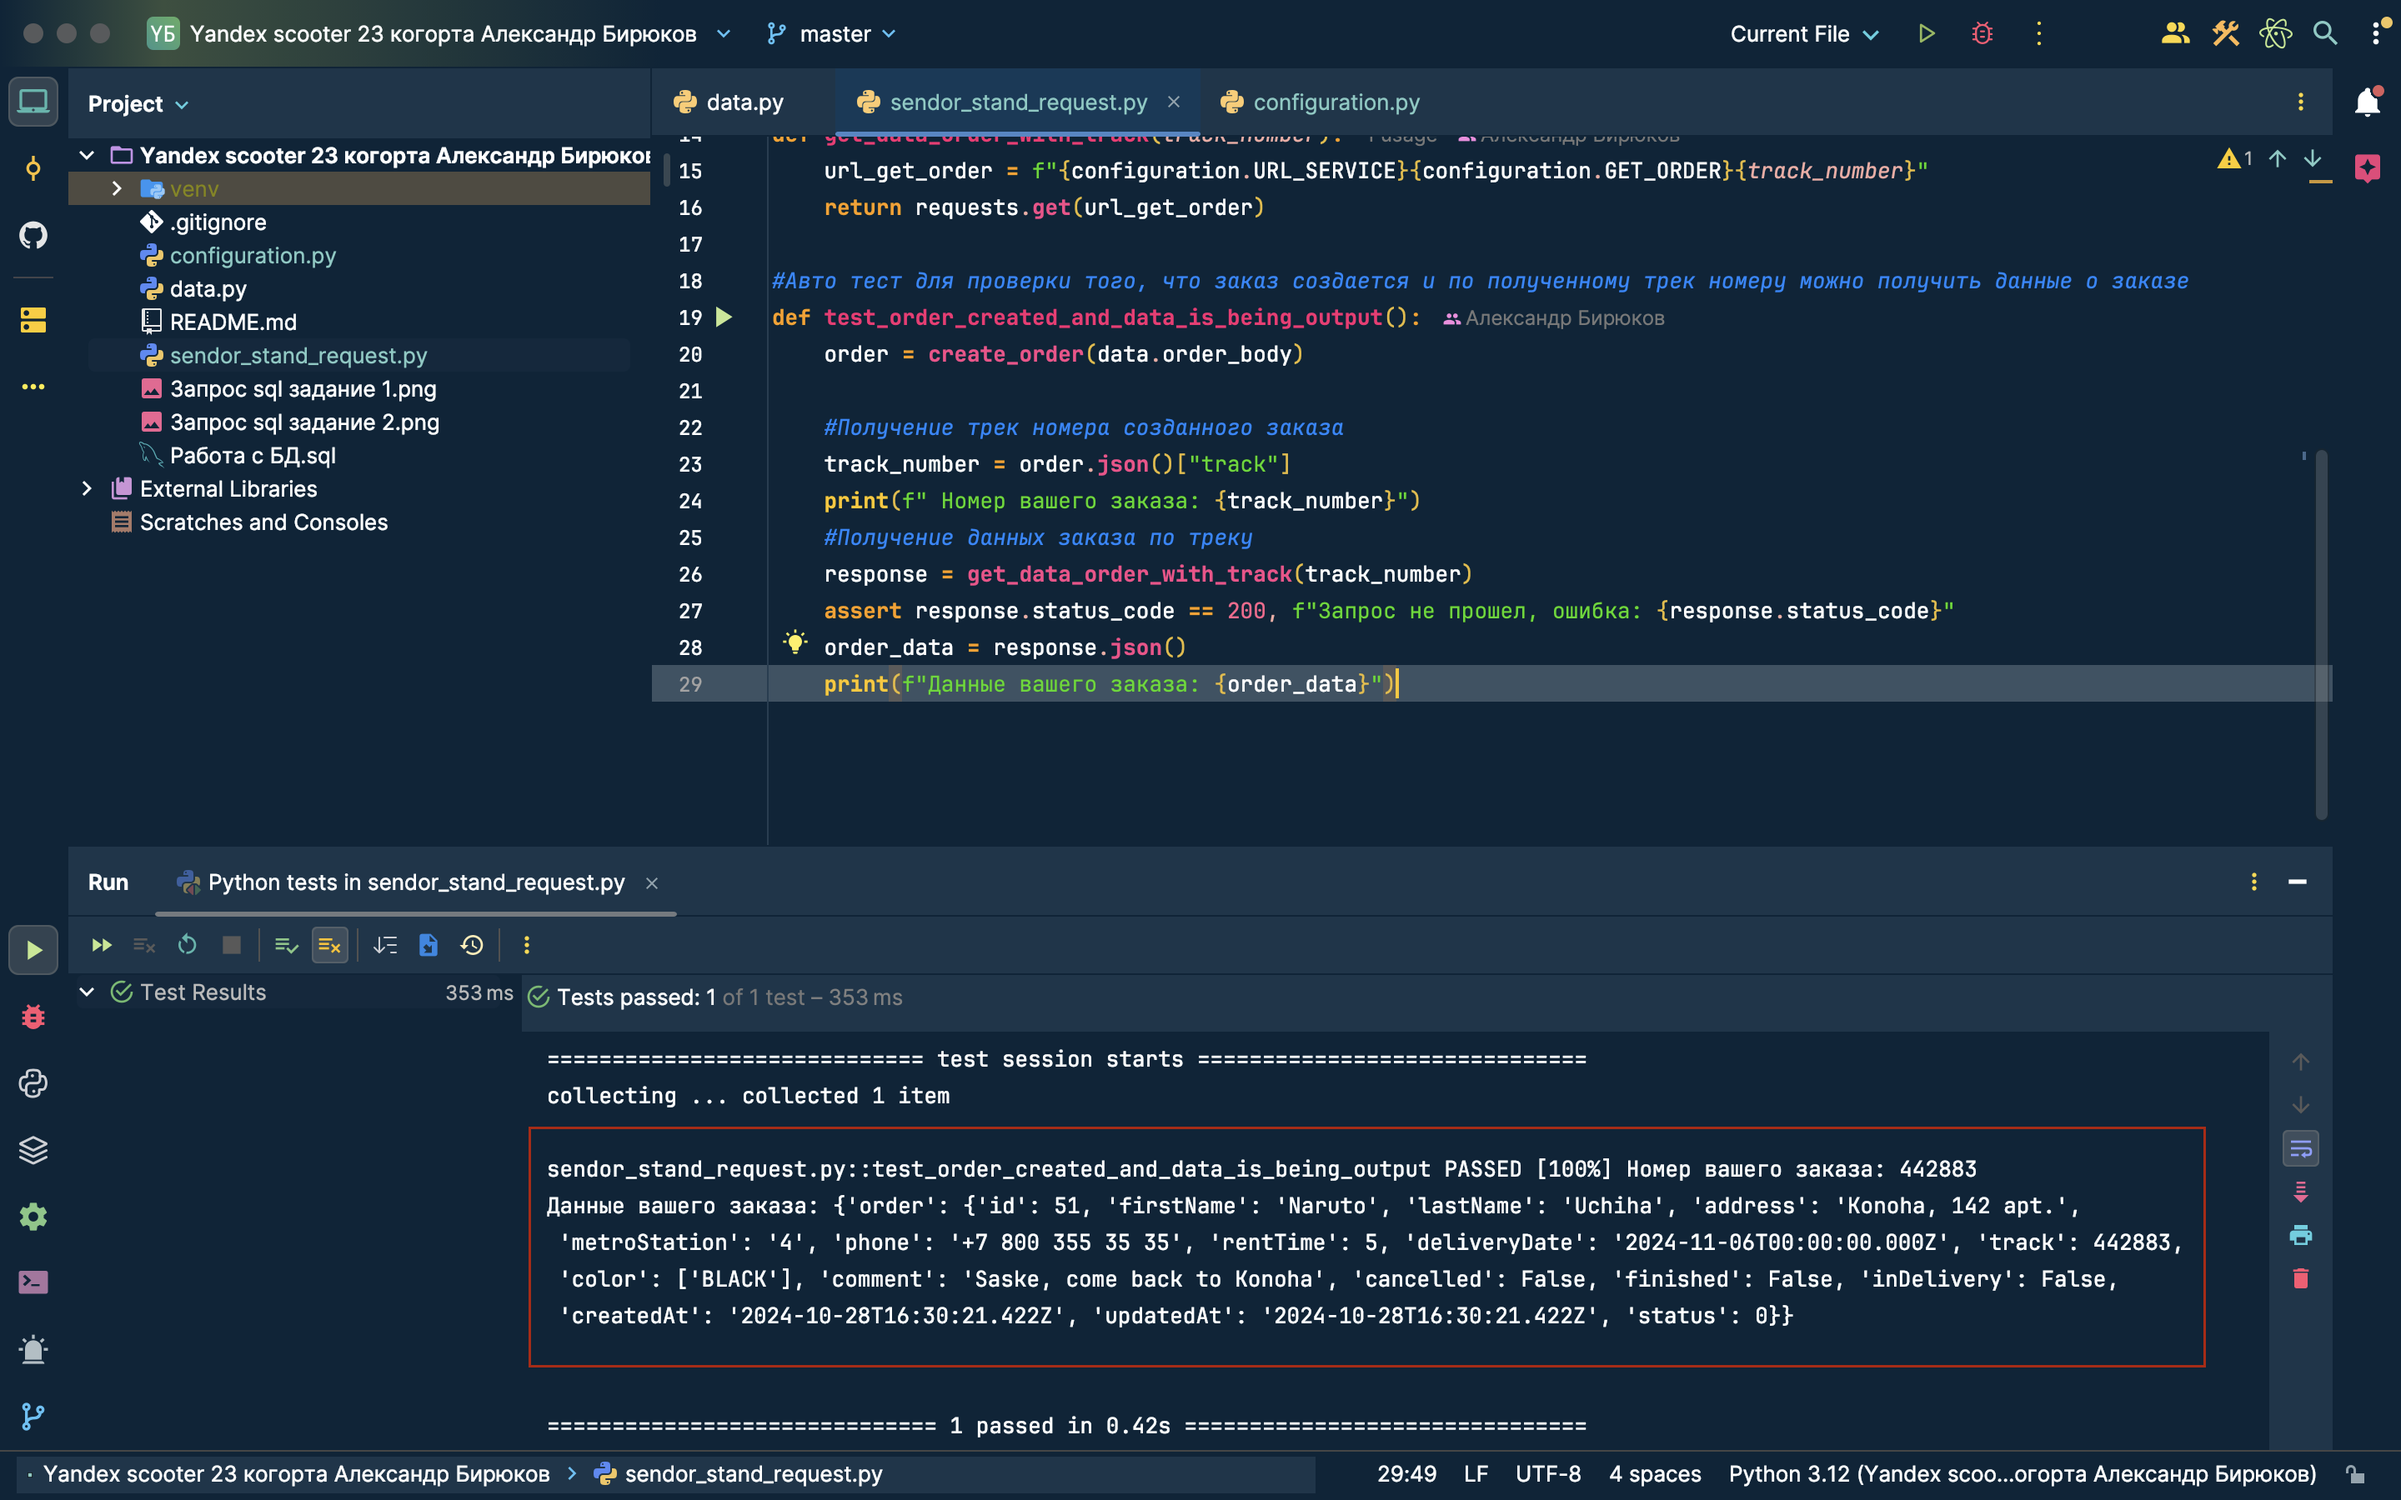
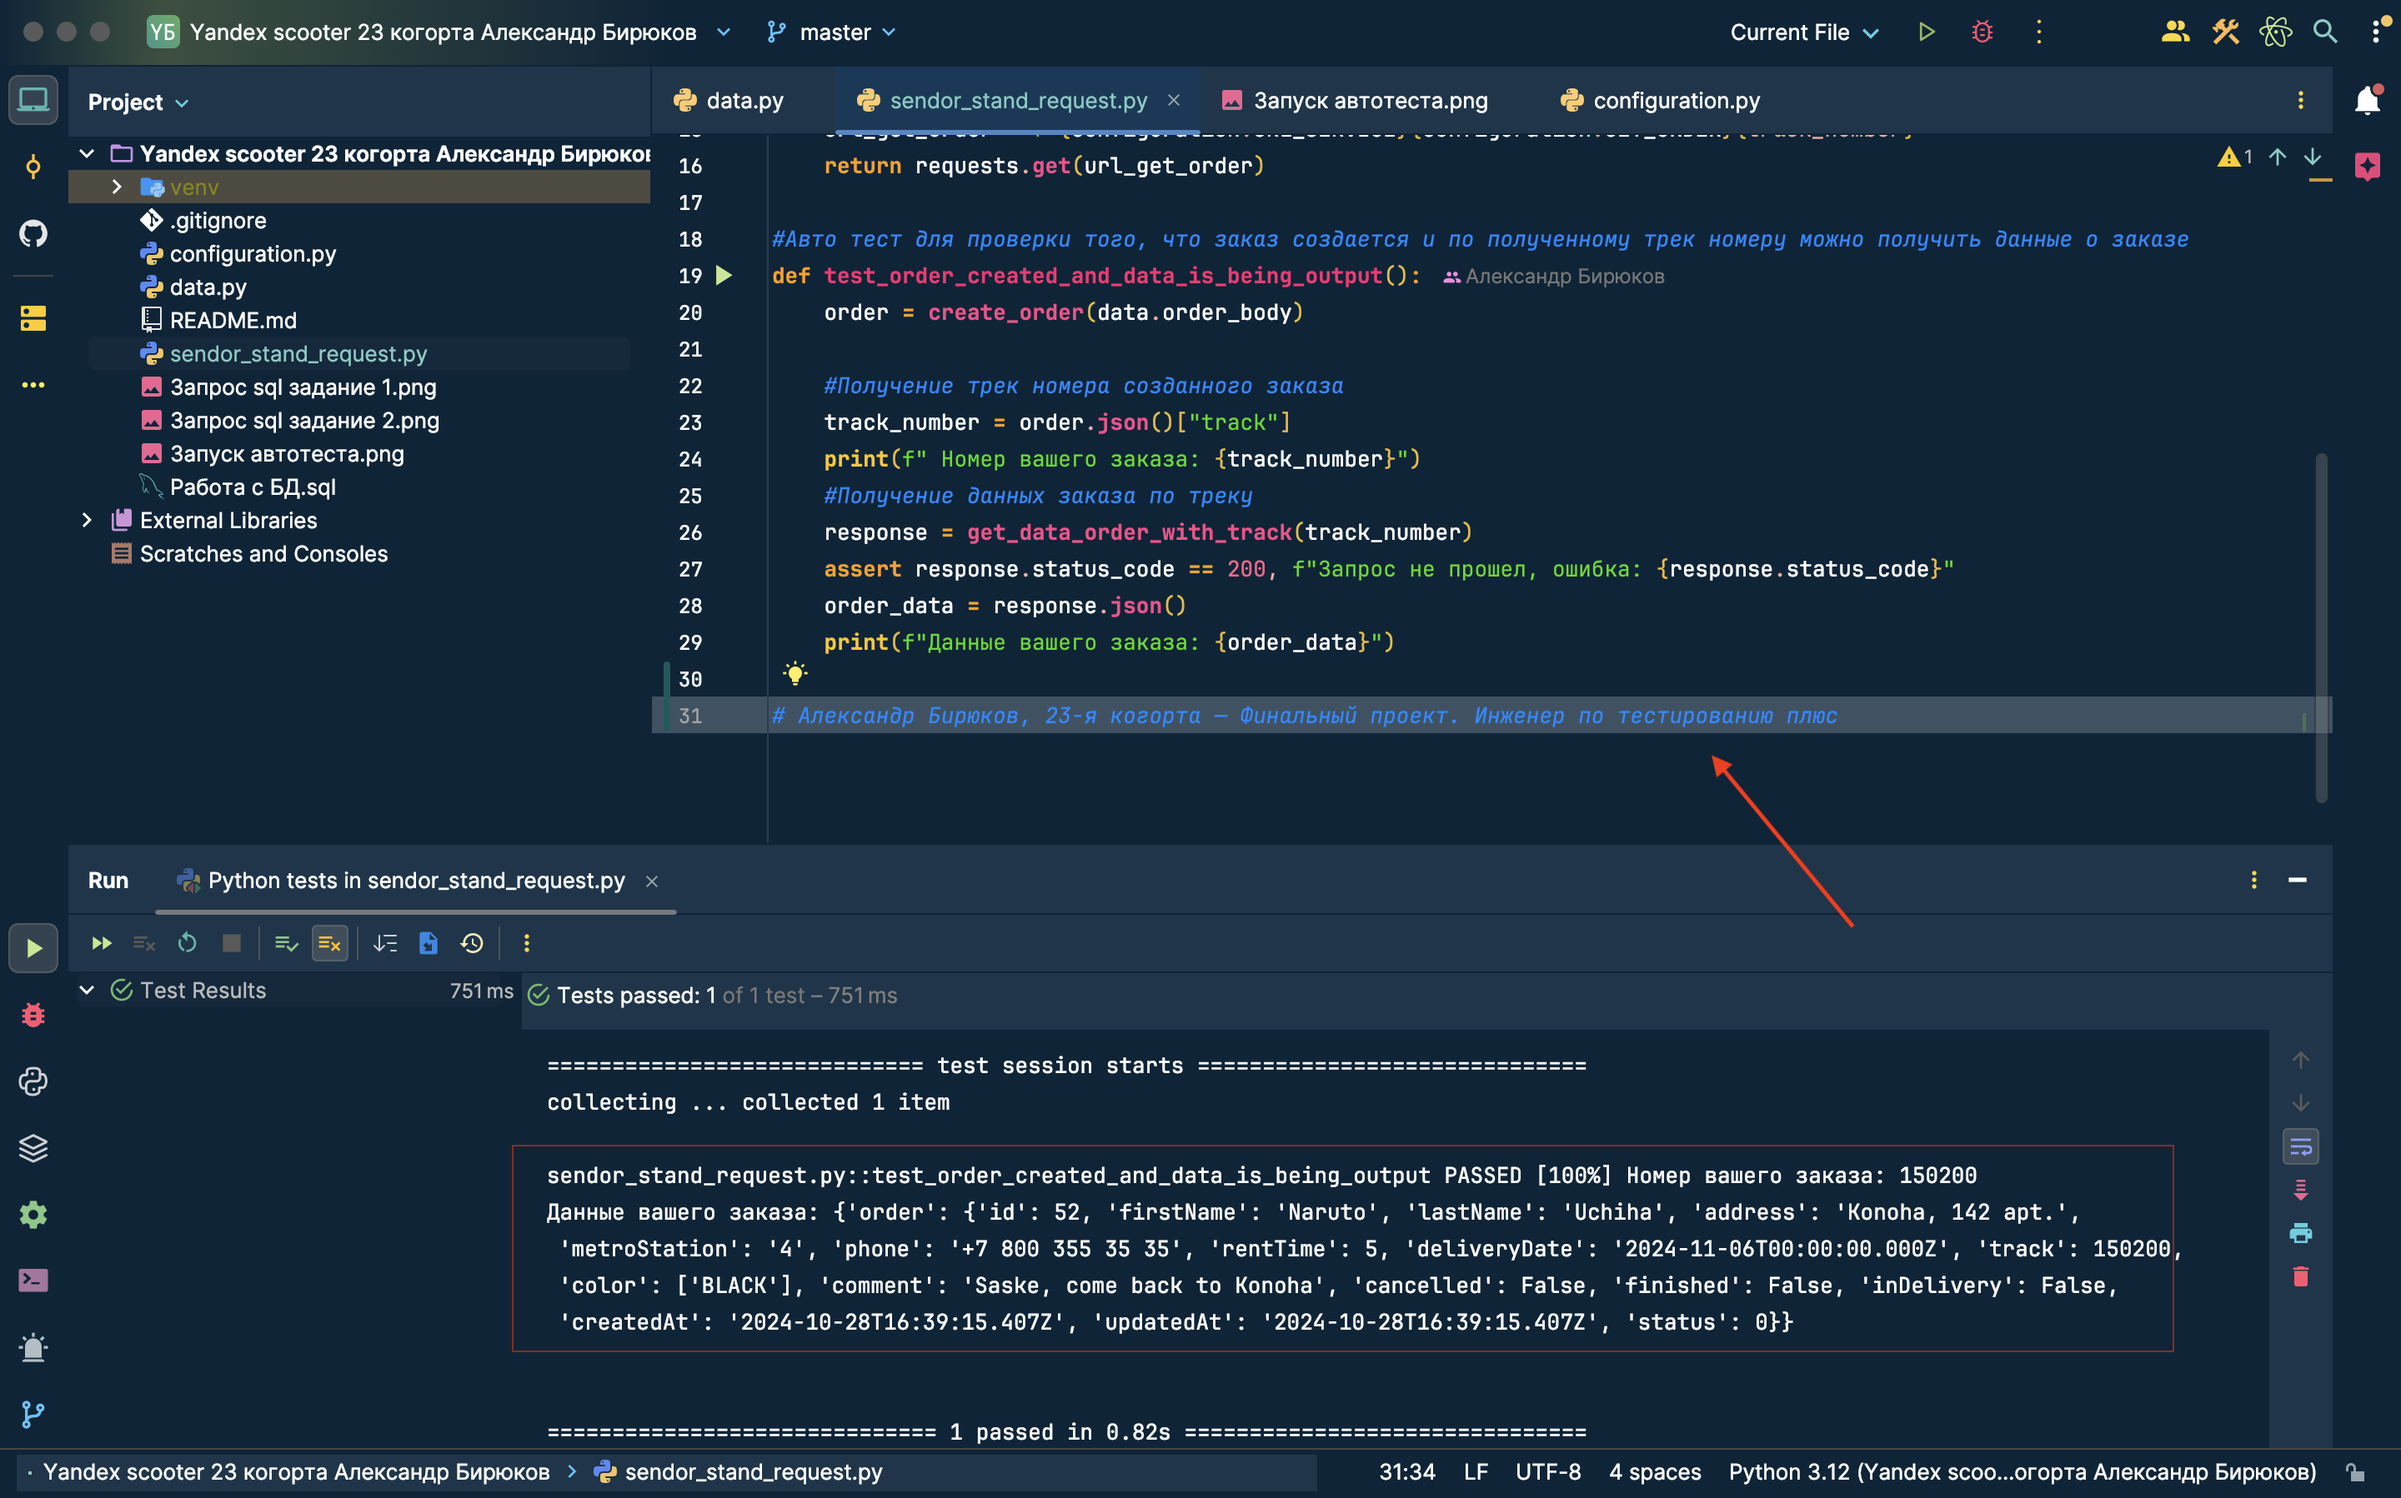
Скриншот запуска автотеста заменен

diff --git a/sendor_stand_request.py b/sendor_stand_request.py
@@ -27,3 +27,5 @@ def test_order_created_and_data_is_being_output():
     assert response.status_code == 200, f"Запрос не прошел, ошибка: {response.status_code}"
     order_data = response.json()
     print(f"Данные вашего заказа: {order_data}")
+
+# Александр Бирюков, 23-я когорта — Финальный проект. Инженер по тестированию плюс
